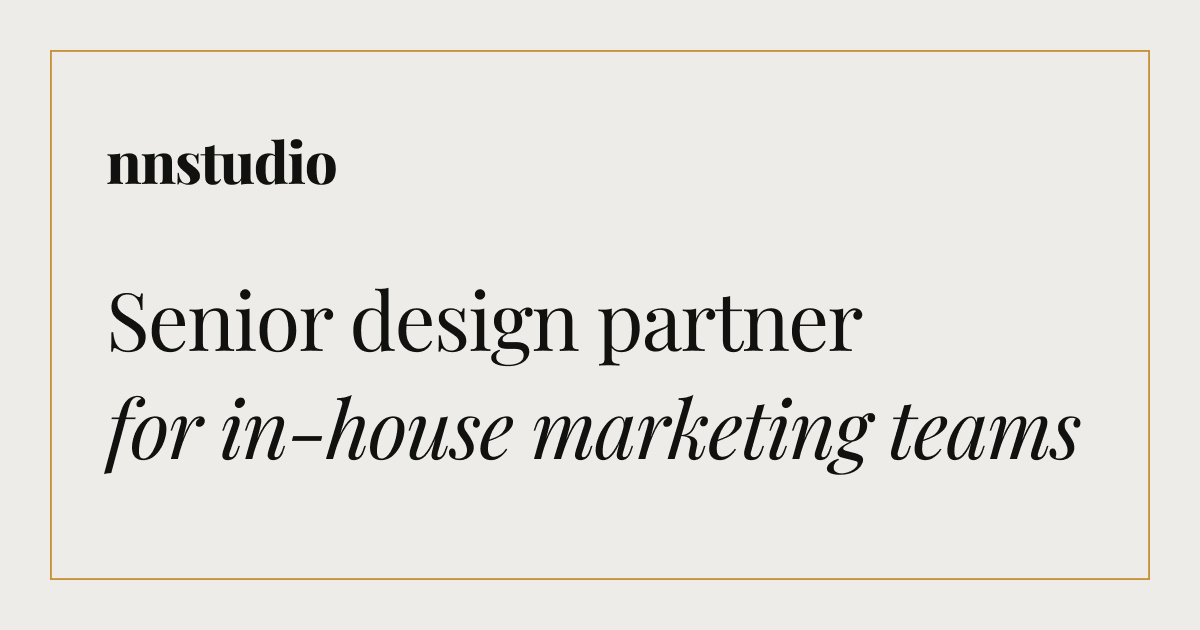
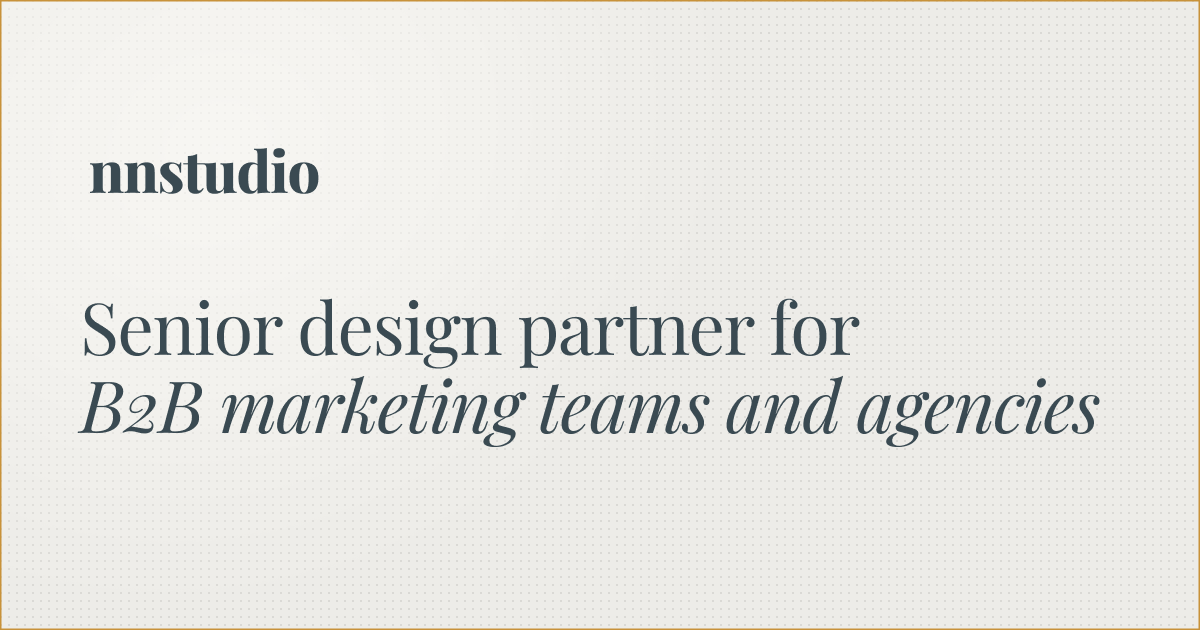
Fix themeColor, remove duplicate Contact nav link, update OG image and Calendly URL
- Standardize themeColor to #2D3D46 across all pages (was #3A4A52 on most)
- Add missing viewport/themeColor export to homepage
- Remove Contact from NAV_LINKS — amber CTA button already handles that link
- Fix stale Calendly URL on contact page
- Replace og-image.png with updated version: correct copy and dot texture matching site

diff --git a/app/contact/page.tsx b/app/contact/page.tsx
@@ -1,6 +1,6 @@
 import type { Metadata, Viewport } from "next";
 
-export const viewport: Viewport = { themeColor: "#3A4A52" };
+export const viewport: Viewport = { themeColor: "#2D3D46" };
 import Nav from "@/components/Nav";
 import ContactForm from "@/components/ContactForm";
 import Footer from "@/components/Footer";
@@ -75,7 +75,7 @@ export default function ContactPage() {
                   the work, the timeline, and whether nnstudio is the right fit.
                 </p>
                 <a
-                  href="https://calenday.com/nnstudio"
+                  href="https://calendly.com/nnstudio-nathan/conversation"
                   target="_blank"
                   rel="noopener noreferrer"
                   className="self-start font-sans text-[14px] tracking-[0.04em] bg-amber text-ink px-9 py-4 hover:bg-[#D4A55A] transition-colors"

diff --git a/app/services/page.tsx b/app/services/page.tsx
@@ -3,7 +3,7 @@ import Nav from "@/components/Nav";
 import Footer from "@/components/Footer";
 import FadeUp from "@/components/FadeUp";
 
-export const viewport: Viewport = { themeColor: "#3A4A52" };
+export const viewport: Viewport = { themeColor: "#2D3D46" };
 
 export const metadata: Metadata = {
   title: "Services",

diff --git a/components/Nav.tsx b/components/Nav.tsx
@@ -3,7 +3,7 @@
 import { useState, useEffect } from "react";
 import NNStudioLogo from "@/components/NNStudioLogo";
 
-const NAV_LINKS = ["Work", "Services", "About", "Contact"];
+const NAV_LINKS = ["Work", "Services", "About"];
 
 export default function Nav() {
   const [open, setOpen] = useState(false);

diff --git a/app/about/page.tsx b/app/about/page.tsx
@@ -1,6 +1,6 @@
 import type { Metadata, Viewport } from "next";
 
-export const viewport: Viewport = { themeColor: "#3A4A52" };
+export const viewport: Viewport = { themeColor: "#2D3D46" };
 import Nav from "@/components/Nav";
 import Footer from "@/components/Footer";
 import Image from "next/image";

diff --git a/app/work/page.tsx b/app/work/page.tsx
@@ -1,7 +1,7 @@
 import type { Metadata, Viewport } from "next";
 import React from "react";
 
-export const viewport: Viewport = { themeColor: "#3A4A52" };
+export const viewport: Viewport = { themeColor: "#2D3D46" };
 
 export const metadata: Metadata = {
   title: "Work",

diff --git a/app/page.tsx b/app/page.tsx
@@ -1,4 +1,6 @@
-import type { Metadata } from "next";
+import type { Metadata, Viewport } from "next";
+
+export const viewport: Viewport = { themeColor: "#2D3D46" };
 import Nav from "@/components/Nav";
 
 export const metadata: Metadata = {
